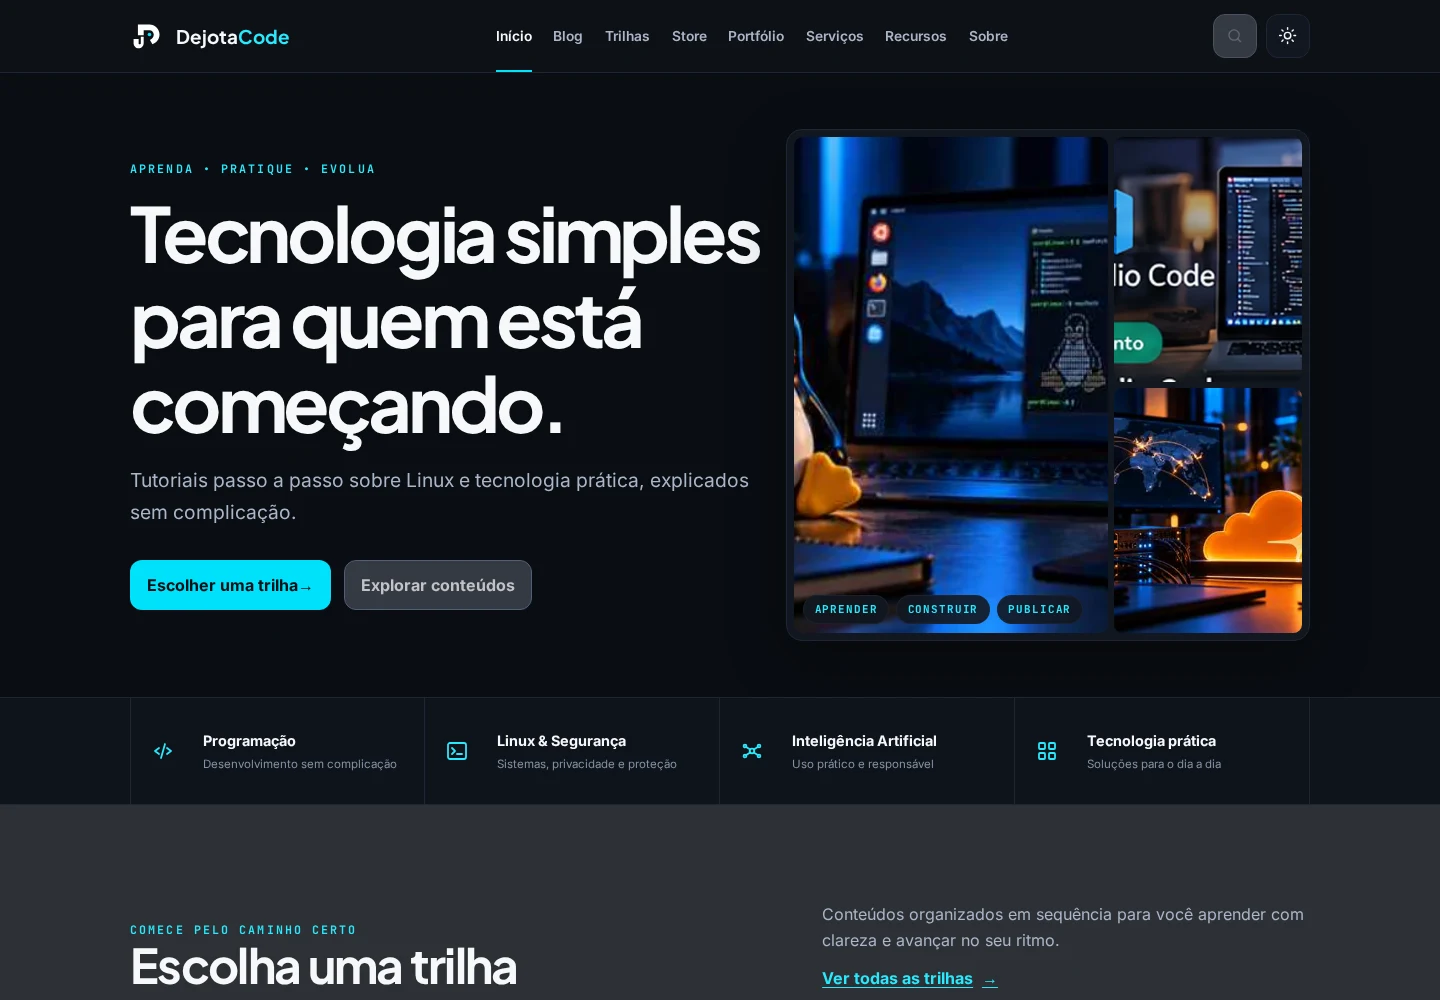
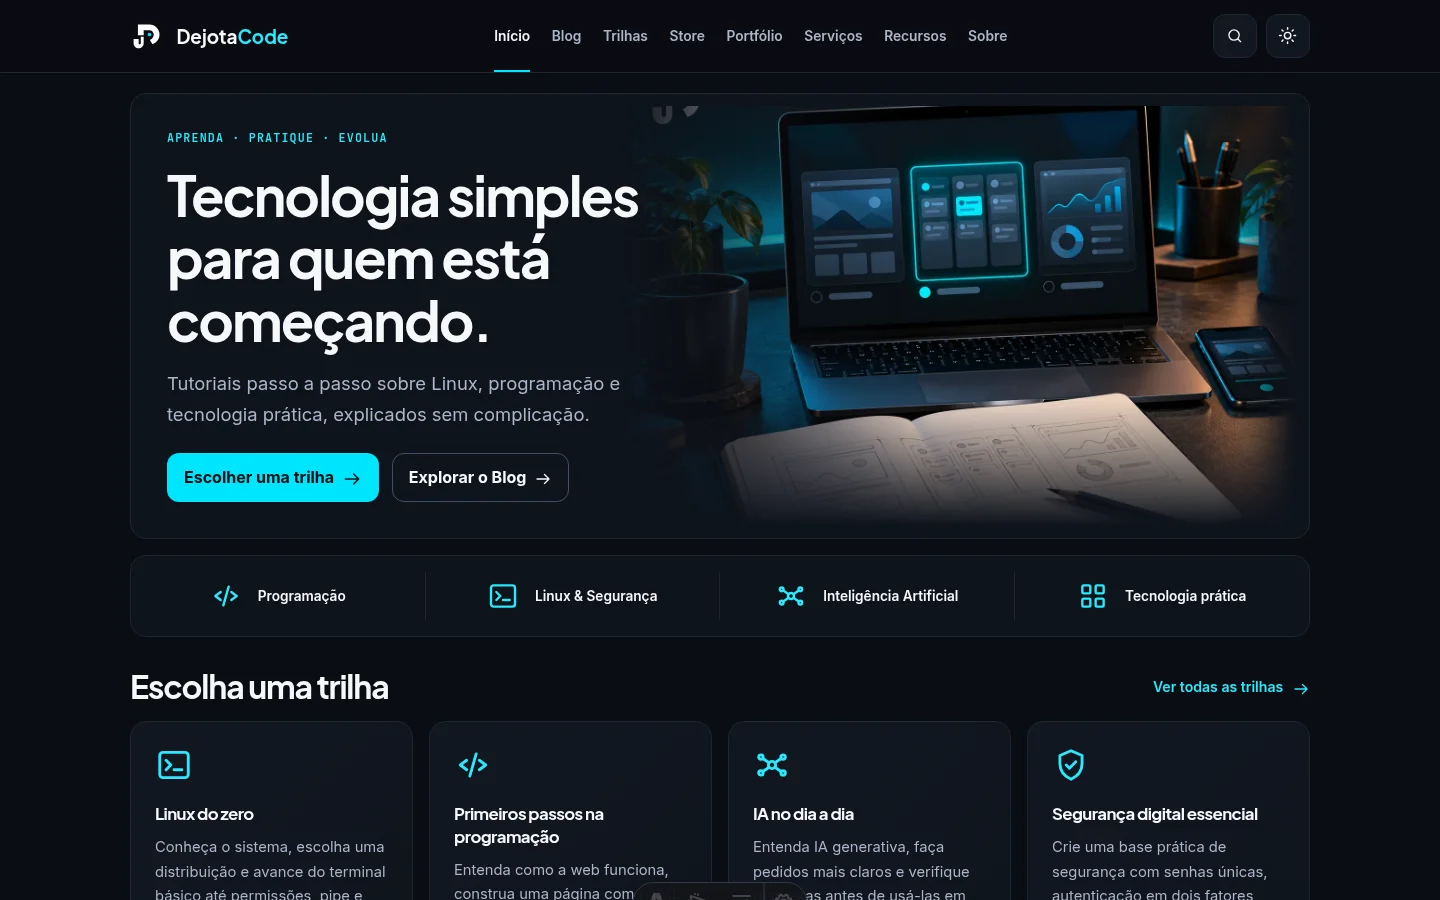
style: present current home capture inside notebook frame

diff --git a/src/styles/services.css b/src/styles/services.css
@@ -84,3 +84,11 @@
  border-color:var(--color-accent-strong);
  color:var(--color-accent-strong);
 }
+
+/* Notebook frontal: tela real do projeto em moldura ilustrativa. */
+.services-notebook { width:100%; padding-bottom:1rem; }
+.services-notebook__screen { position:relative; width:86%; margin-inline:auto; padding:3.2% 2.4% 2%; background:#080a0c; border:2px solid #697078; border-radius:clamp(.6rem,2vw,1.4rem) clamp(.6rem,2vw,1.4rem) .2rem .2rem; box-shadow:inset 0 0 0 2px #191d21; }
+.services-notebook__screen::before { content:""; position:absolute; top:2%; left:50%; width:3px; height:3px; border-radius:50%; background:#3a4248; }
+.services-proof__visual .services-notebook__screen img { width:100%; height:auto; aspect-ratio:8/5; border:0; border-radius:.15rem; }
+.services-notebook__base { position:relative; height:clamp(.55rem,1.2vw,.9rem); margin-top:-1px; border:1px solid #777f86; border-radius:0 0 45% 45% / 0 0 100% 100%; background:linear-gradient(90deg,#454a4f 0%,#bdc3c8 5%,#6d757b 17%,#a6adb2 50%,#6d757b 83%,#bdc3c8 95%,#454a4f 100%); box-shadow:0 .45rem .6rem rgb(0 0 0 / 18%); }
+.services-notebook__base::before { content:""; position:absolute; top:0; left:42%; width:16%; height:35%; background:#555e65; border-radius:0 0 .35rem .35rem; }

diff --git a/docs/frontend-review.md b/docs/frontend-review.md
@@ -295,3 +295,6 @@ Pendências restantes exigem revisão própria: inventário de Setup, organizaç
 
 ## Correção de contraste WhatsApp — 09/10/2026
 Símbolo de canal nos botões passa a herdar a cor do texto, evitando ciano sobre ciano. Todos os CTA wa.me de Serviços agora têm o símbolo, inclusive diagnóstico, landing page e manutenção. Check/build/QA aprovados; 16 combinações de Contato/Serviços em quatro larguras e dois temas sem overflow, com símbolo presente e cor computada igual ao texto do botão. Sem publicação.
+
+## Case de Serviços — reprodução do notebook do esboço, 09/10/2026
+Moldura e base em CSS, com captura atual da Home; imagens aprovadas da Home não substituídas. Check zero erros/avisos; build 115 páginas; QA aprovado. Oito combinações em 320/390/768/1440 nos dois temas sem overflow e captura carregada; screenshots desktop escuro e mobile claro inspecionadas. Revisão visual do usuário pendente; sem publicação.

diff --git a/docs/media-registry.md b/docs/media-registry.md
@@ -40,3 +40,6 @@ Pendência de recorte resolvida na trilha em 09/10/2026: novo /assets/trails/pri
 
 ## Atualização final da captura de Trilhas — décima primeira etapa
 /assets/portfolio/trilhas.webp recapturada em 09/10/2026 após a nova capa de programação. Mantém 1280 × 960, tema escuro, WebP qualidade 85 e caminho estável. Exportação pelo ImageMagick; imagem real do preview, sem assinatura. Home/Blog não alterados. Evidências em frontend-review.md.
+
+## Notebook do case de Serviços — 09/10/2026
+Captura services-dejotacode-case.webp atualizada do preview Home 4321, escuro, 1440x900, WebP qualidade 85, fontes e imagens aguardadas e toolbar removida. Tela real dentro de moldura ilustrativa CSS, sem assinatura adicionada.

diff --git a/docs/visual-system.md b/docs/visual-system.md
@@ -100,3 +100,6 @@ Home e Store usam grid sem intervalo e mídia com avanço de 5rem sob a coluna d
 
 ## Contato — destinos comerciais compactos
 contact-destinations--attendance reutiliza os cartões de Serviços/Parcerias em uma coluna dentro do atendimento, abaixo do WhatsApp e antes do mapa; padding .8rem, ícones 24px, título 1rem e descrição .85rem. URLs e descrições preservados.
+
+## Case de Serviços — notebook ilustrativo
+services-notebook apresenta captura real dentro de tela com borda escura, câmera decorativa e base metálica CSS. Moldura mantém cor de hardware nos dois temas, tela 8:5, largura 86% da base. Elementos de hardware são decorativos; texto e ação do case permanecem HTML fora da captura.
